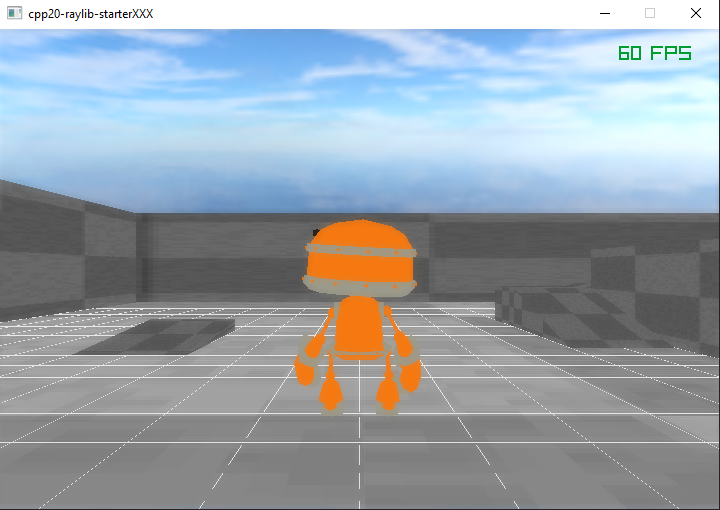
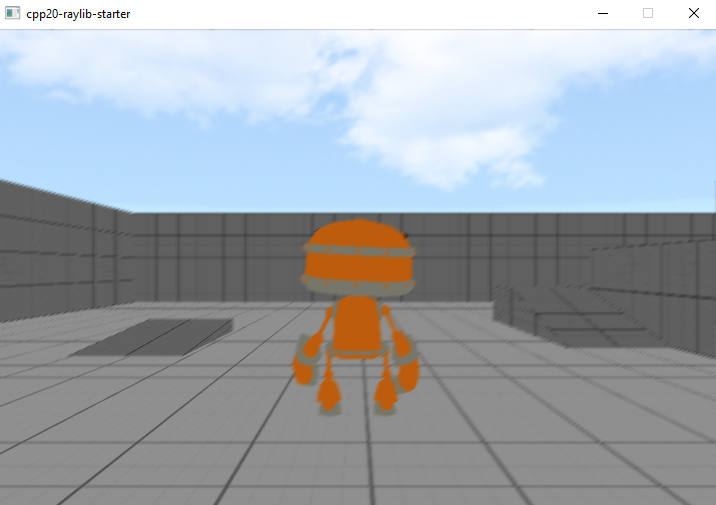
docs: ✏ readme tiling

diff --git a/standalone/desktop_win64/src/main.cpp b/standalone/desktop_win64/src/main.cpp
@@ -35,9 +35,9 @@ AppConfiguration initConfig()
     appConfig.screen_height = getScreen(SD).height;
     appConfig.fps_limit = 60;
     appConfig.fps_counter_show = true;
-    appConfig.postpro_msaa_enable = false;
+    appConfig.postpro_msaa_enable = true;
     appConfig.postpro_texturefilter = 2; 
-    appConfig.postpro_blur_enable = false;
+    appConfig.postpro_blur_enable = true;
     return appConfig;
 }
 

diff --git a/README.md b/README.md
@@ -45,7 +45,7 @@
 - Graphics
   - :hourglass: Render: 
       :heavy_check_mark: PostProcessing
-      :hourglass: Texture tiling
+      :heavy_check_mark: Texture tiling
   - :hourglass: Camera: 
       :hourglass: ThirdPerson
       :x: FOV
